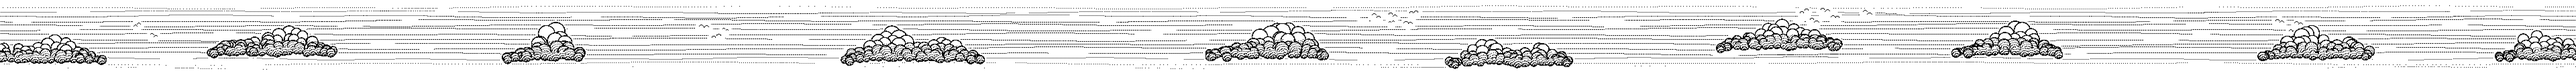
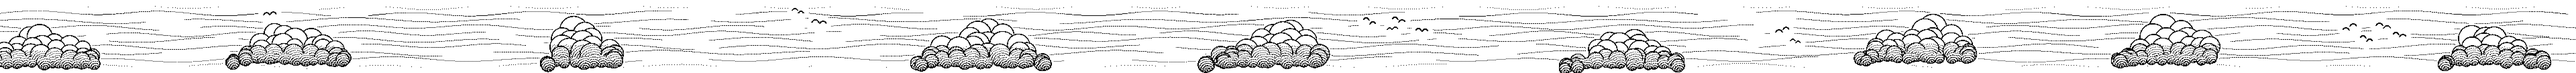
Puffier clouds, curvier wind lines, bigger birds; static CTA stars
- Light theme sky (dividers, final CTA, cloud bank): clouds are built from
  fewer, larger, rounder puffs; the wind lines have gentle curves and
  there are about 30% fewer of them; birds are larger and drawn bolder.
- Final CTA (light): more clouds, lines and birds toward the edges of the
  screen, with the lines strengthening outward and the area around the
  words left nearly empty, like the dark version.
- Final CTA (dark): removed the star twinkle. The stardust is now a
  single static layer (cta-stars.png).

Claude-Session: https://claude.ai/code/session_01A1VqEuwrkmMr14CqJk9vdN

diff --git a/src/components/Contact/Contact.module.css b/src/components/Contact/Contact.module.css
@@ -44,7 +44,7 @@
 
 /* ---------- Backdrop ---------- */
 /* Every layer is a 2x mask image, 3840 CSS px wide, shown at natural size and
-   tinted with the theme's dither color. Only the stars move (they twinkle). */
+   tinted with the theme's dither color. Nothing here moves. */
 .layer {
   top: 10px;
   left: 50%;
@@ -62,17 +62,11 @@
   display: none;
 }
 
-/* Dark theme: twinkling stardust, two frames crossfading */
-.starsA {
-  animation: twinkleA 5s ease-in-out infinite;
-  -webkit-mask: url("/dither/cta-stars-a.png") center top / auto 680px no-repeat;
-  mask: url("/dither/cta-stars-a.png") center top / auto 680px no-repeat;
-}
-
-.starsB {
-  animation: twinkleB 5s ease-in-out infinite;
-  -webkit-mask: url("/dither/cta-stars-b.png") center top / auto 680px no-repeat;
-  mask: url("/dither/cta-stars-b.png") center top / auto 680px no-repeat;
+/* Dark theme: stardust, kept faint so it stays in the background */
+.stars {
+  opacity: 0.4;
+  -webkit-mask: url("/dither/cta-stars.png") center top / auto 680px no-repeat;
+  mask: url("/dither/cta-stars.png") center top / auto 680px no-repeat;
 }
 
 /* Dark theme: planets, galaxies, a comet, constellations, and nebula dust */
@@ -96,27 +90,6 @@
   height: 150px;
   -webkit-mask: url("/dither/cta-sky-bank.png") center bottom / auto 150px no-repeat;
   mask: url("/dither/cta-sky-bank.png") center bottom / auto 150px no-repeat;
-}
-
-/* Kept faint so the stars stay in the background */
-@keyframes twinkleA {
-  0%,
-  100% {
-    opacity: 0.45;
-  }
-  50% {
-    opacity: 0.1;
-  }
-}
-
-@keyframes twinkleB {
-  0%,
-  100% {
-    opacity: 0.1;
-  }
-  50% {
-    opacity: 0.45;
-  }
 }
 
 .text {

diff --git a/src/components/Contact/Contact.jsx b/src/components/Contact/Contact.jsx
@@ -5,14 +5,12 @@ function Contact() {
   return (
     <section id="contact" className={styles.contact}>
       {/* Backdrop, edge to edge, kept clear of the words.
-          Dark theme: twinkling stardust (two frames that fade into each other) behind
-          planets, galaxies, a comet, and constellations.
+          Dark theme: stardust behind planets, galaxies, a comet, and constellations.
           Light theme: the sky above the footer, engraving style, with cumulus clouds and
           birds over fine wavy lines, and a bank of cloud along the bottom that thickens
           into the footer's blue. */}
       <div aria-hidden="true" className={styles.night}>
-        <div className={`${styles.layer} ${styles.starsA}`}></div>
-        <div className={`${styles.layer} ${styles.starsB}`}></div>
+        <div className={`${styles.layer} ${styles.stars}`}></div>
         <div className={`${styles.layer} ${styles.space}`}></div>
       </div>
       <div aria-hidden="true" className={styles.day}>
